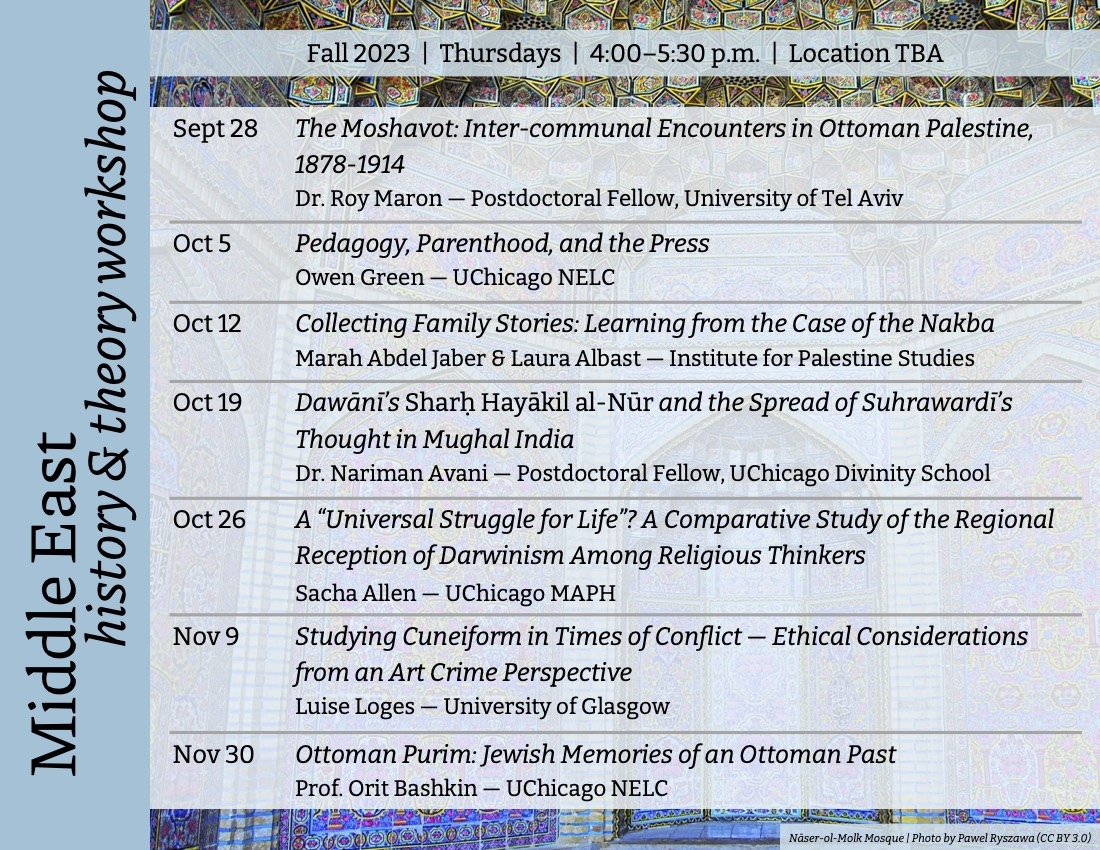
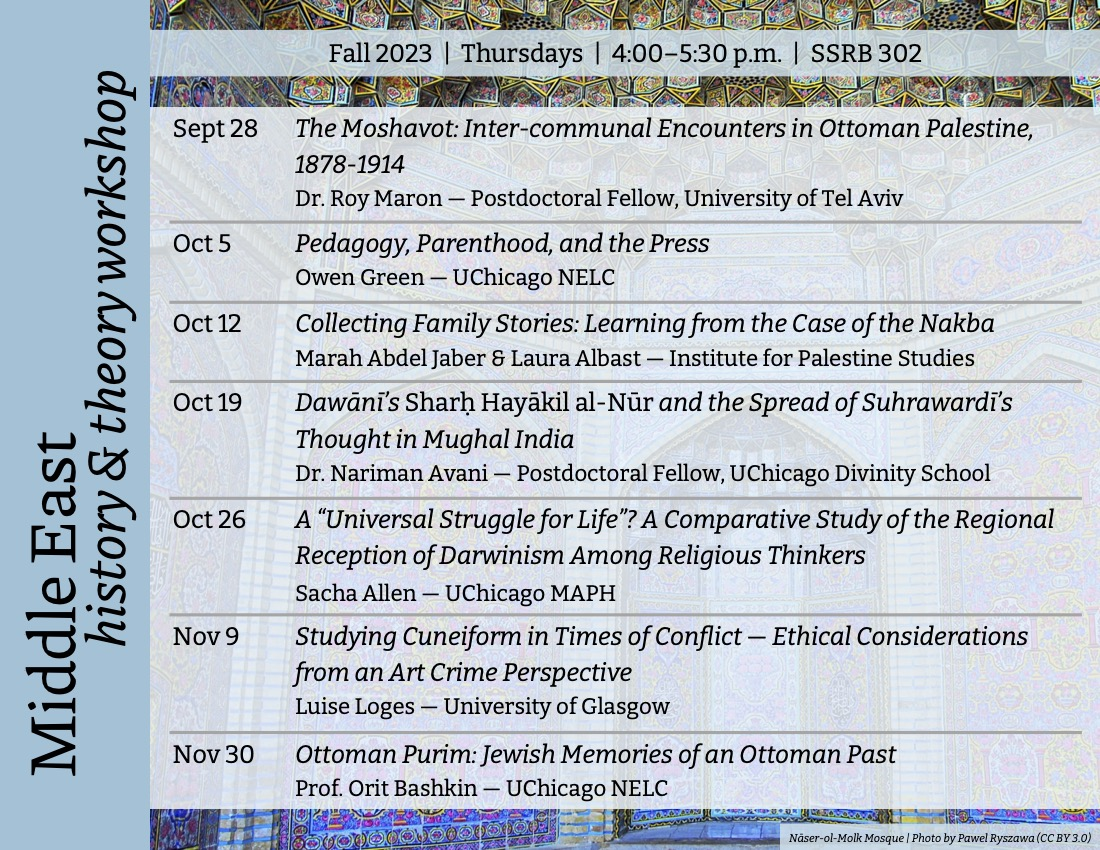
update to mehat location

Changed region(s): [[0.2782, 0.0306, 0.8655, 0.0918]]

diff --git a/_site/MEHAT/2023/09/25/mehat-schedule-fall-2023.html b/_site/MEHAT/2023/09/25/mehat-schedule-fall-2023.html
@@ -284,8 +284,8 @@
 <meta name="generator" content="Jekyll v4.3.2" />
 <meta property="og:title" content="MEHAT Schedule — Fall Term 2023" />
 <meta property="og:locale" content="en_US" />
-<meta name="description" content="We are pleased to announce the tentative schedule for the Fall 2023 meetings of the MEHAT Workshop! Please note presentations will take place at 4PM on Thursdays throughout the term in LOCATION TBA. Fall 2023: Sept 28 – The Moshavot: Inter-communal Encounters in Ottoman Palestine, 1878-1914 w/ Dr. Roy Maron (Postdoctoral Fellow, University of Tel Aviv) Oct 5 — Pedagogy, Parenthood, and the Press w/ Owen Green (UChicago NELC) Oct 12 — Collecting Family Stories: Learning from the Case of the Nakba w/ Marah Abdel Jaber &amp; Laura Albast (Institute for Palestine Studies) Oct 19 — Dawānī’s Sharḥ Hayākil al-Nūr and the Spread of Suhrawardī’s Thought in Mughal India w/ Dr. Nariman Avani (Postdoctoral Fellow, UChicago Divinity School) Oct 26 — A “Universal Struggle for Life”? A Comparative Study of the Regional Reception of Darwinism Among Religious Thinkers w/ Sacha Allen (UChicago MAPH) Nov 9 — Studying Cuneiform in Times of Conflict — Ethical Considerations from an Art Crime Perspective w/ Luise Loges (University of Glasgow) Nov 30 — Ottoman Purim: Jewish Memories of an Ottoman Past w/ Prof. Orit Bashkin (UChicago NELC)" />
-<meta property="og:description" content="We are pleased to announce the tentative schedule for the Fall 2023 meetings of the MEHAT Workshop! Please note presentations will take place at 4PM on Thursdays throughout the term in LOCATION TBA. Fall 2023: Sept 28 – The Moshavot: Inter-communal Encounters in Ottoman Palestine, 1878-1914 w/ Dr. Roy Maron (Postdoctoral Fellow, University of Tel Aviv) Oct 5 — Pedagogy, Parenthood, and the Press w/ Owen Green (UChicago NELC) Oct 12 — Collecting Family Stories: Learning from the Case of the Nakba w/ Marah Abdel Jaber &amp; Laura Albast (Institute for Palestine Studies) Oct 19 — Dawānī’s Sharḥ Hayākil al-Nūr and the Spread of Suhrawardī’s Thought in Mughal India w/ Dr. Nariman Avani (Postdoctoral Fellow, UChicago Divinity School) Oct 26 — A “Universal Struggle for Life”? A Comparative Study of the Regional Reception of Darwinism Among Religious Thinkers w/ Sacha Allen (UChicago MAPH) Nov 9 — Studying Cuneiform in Times of Conflict — Ethical Considerations from an Art Crime Perspective w/ Luise Loges (University of Glasgow) Nov 30 — Ottoman Purim: Jewish Memories of an Ottoman Past w/ Prof. Orit Bashkin (UChicago NELC)" />
+<meta name="description" content="We are pleased to announce the tentative schedule for the Fall 2023 meetings of the MEHAT Workshop! Please note presentations will take place at 4PM on Thursdays throughout the term in SSRB 302. Fall 2023: Sept 28 – The Moshavot: Inter-communal Encounters in Ottoman Palestine, 1878-1914 w/ Dr. Roy Maron (Postdoctoral Fellow, University of Tel Aviv) Oct 5 — Pedagogy, Parenthood, and the Press w/ Owen Green (UChicago NELC) Oct 12 — Collecting Family Stories: Learning from the Case of the Nakba w/ Marah Abdel Jaber &amp; Laura Albast (Institute for Palestine Studies) Oct 19 — Dawānī’s Sharḥ Hayākil al-Nūr and the Spread of Suhrawardī’s Thought in Mughal India w/ Dr. Nariman Avani (Postdoctoral Fellow, UChicago Divinity School) Oct 26 — A “Universal Struggle for Life”? A Comparative Study of the Regional Reception of Darwinism Among Religious Thinkers w/ Sacha Allen (UChicago MAPH) Nov 9 — Studying Cuneiform in Times of Conflict — Ethical Considerations from an Art Crime Perspective w/ Luise Loges (University of Glasgow) Nov 30 — Ottoman Purim: Jewish Memories of an Ottoman Past w/ Prof. Orit Bashkin (UChicago NELC)" />
+<meta property="og:description" content="We are pleased to announce the tentative schedule for the Fall 2023 meetings of the MEHAT Workshop! Please note presentations will take place at 4PM on Thursdays throughout the term in SSRB 302. Fall 2023: Sept 28 – The Moshavot: Inter-communal Encounters in Ottoman Palestine, 1878-1914 w/ Dr. Roy Maron (Postdoctoral Fellow, University of Tel Aviv) Oct 5 — Pedagogy, Parenthood, and the Press w/ Owen Green (UChicago NELC) Oct 12 — Collecting Family Stories: Learning from the Case of the Nakba w/ Marah Abdel Jaber &amp; Laura Albast (Institute for Palestine Studies) Oct 19 — Dawānī’s Sharḥ Hayākil al-Nūr and the Spread of Suhrawardī’s Thought in Mughal India w/ Dr. Nariman Avani (Postdoctoral Fellow, UChicago Divinity School) Oct 26 — A “Universal Struggle for Life”? A Comparative Study of the Regional Reception of Darwinism Among Religious Thinkers w/ Sacha Allen (UChicago MAPH) Nov 9 — Studying Cuneiform in Times of Conflict — Ethical Considerations from an Art Crime Perspective w/ Luise Loges (University of Glasgow) Nov 30 — Ottoman Purim: Jewish Memories of an Ottoman Past w/ Prof. Orit Bashkin (UChicago NELC)" />
 <link rel="canonical" href="http://localhost:4000/MEHAT/2023/09/25/mehat-schedule-fall-2023.html" />
 <meta property="og:url" content="http://localhost:4000/MEHAT/2023/09/25/mehat-schedule-fall-2023.html" />
 <meta property="og:site_name" content="Theo Knights" />
@@ -294,7 +294,7 @@
 <meta name="twitter:card" content="summary" />
 <meta property="twitter:title" content="MEHAT Schedule — Fall Term 2023" />
 <script type="application/ld+json">
-{"@context":"https://schema.org","@type":"BlogPosting","dateModified":"2023-09-25T16:10:23-05:00","datePublished":"2023-09-25T16:10:23-05:00","description":"We are pleased to announce the tentative schedule for the Fall 2023 meetings of the MEHAT Workshop! Please note presentations will take place at 4PM on Thursdays throughout the term in LOCATION TBA. Fall 2023: Sept 28 – The Moshavot: Inter-communal Encounters in Ottoman Palestine, 1878-1914 w/ Dr. Roy Maron (Postdoctoral Fellow, University of Tel Aviv) Oct 5 — Pedagogy, Parenthood, and the Press w/ Owen Green (UChicago NELC) Oct 12 — Collecting Family Stories: Learning from the Case of the Nakba w/ Marah Abdel Jaber &amp; Laura Albast (Institute for Palestine Studies) Oct 19 — Dawānī’s Sharḥ Hayākil al-Nūr and the Spread of Suhrawardī’s Thought in Mughal India w/ Dr. Nariman Avani (Postdoctoral Fellow, UChicago Divinity School) Oct 26 — A “Universal Struggle for Life”? A Comparative Study of the Regional Reception of Darwinism Among Religious Thinkers w/ Sacha Allen (UChicago MAPH) Nov 9 — Studying Cuneiform in Times of Conflict — Ethical Considerations from an Art Crime Perspective w/ Luise Loges (University of Glasgow) Nov 30 — Ottoman Purim: Jewish Memories of an Ottoman Past w/ Prof. Orit Bashkin (UChicago NELC)","headline":"MEHAT Schedule — Fall Term 2023","mainEntityOfPage":{"@type":"WebPage","@id":"http://localhost:4000/MEHAT/2023/09/25/mehat-schedule-fall-2023.html"},"url":"http://localhost:4000/MEHAT/2023/09/25/mehat-schedule-fall-2023.html"}</script>
+{"@context":"https://schema.org","@type":"BlogPosting","dateModified":"2023-09-25T16:10:23-05:00","datePublished":"2023-09-25T16:10:23-05:00","description":"We are pleased to announce the tentative schedule for the Fall 2023 meetings of the MEHAT Workshop! Please note presentations will take place at 4PM on Thursdays throughout the term in SSRB 302. Fall 2023: Sept 28 – The Moshavot: Inter-communal Encounters in Ottoman Palestine, 1878-1914 w/ Dr. Roy Maron (Postdoctoral Fellow, University of Tel Aviv) Oct 5 — Pedagogy, Parenthood, and the Press w/ Owen Green (UChicago NELC) Oct 12 — Collecting Family Stories: Learning from the Case of the Nakba w/ Marah Abdel Jaber &amp; Laura Albast (Institute for Palestine Studies) Oct 19 — Dawānī’s Sharḥ Hayākil al-Nūr and the Spread of Suhrawardī’s Thought in Mughal India w/ Dr. Nariman Avani (Postdoctoral Fellow, UChicago Divinity School) Oct 26 — A “Universal Struggle for Life”? A Comparative Study of the Regional Reception of Darwinism Among Religious Thinkers w/ Sacha Allen (UChicago MAPH) Nov 9 — Studying Cuneiform in Times of Conflict — Ethical Considerations from an Art Crime Perspective w/ Luise Loges (University of Glasgow) Nov 30 — Ottoman Purim: Jewish Memories of an Ottoman Past w/ Prof. Orit Bashkin (UChicago NELC)","headline":"MEHAT Schedule — Fall Term 2023","mainEntityOfPage":{"@type":"WebPage","@id":"http://localhost:4000/MEHAT/2023/09/25/mehat-schedule-fall-2023.html"},"url":"http://localhost:4000/MEHAT/2023/09/25/mehat-schedule-fall-2023.html"}</script>
 <!-- End Jekyll SEO tag -->
 
 
@@ -460,7 +460,7 @@
 <p>We are pleased to announce the tentative schedule for the Fall 2023 meetings of the MEHAT Workshop!
 <br />
 <br />
-<b>Please note presentations will take place at 4PM on Thursdays throughout the term in LOCATION TBA.</b></p>
+<b>Please note presentations will take place at 4PM on Thursdays throughout the term in SSRB 302.</b></p>
 <div class="desktoponly" style="max-width: 100%;">
     <a href="http://localhost:4000/images/MEHAT Fall 2023.jpg" target="_blank">
       <img alt="schedule fall" src="http://localhost:4000/images/MEHAT Fall 2023.jpg" style="width: auto;" />

diff --git a/_posts/2023-09-25-mehat-schedule-fall-2023.md b/_posts/2023-09-25-mehat-schedule-fall-2023.md
@@ -7,7 +7,7 @@ categories: MEHAT
 We are pleased to announce the tentative schedule for the Fall 2023 meetings of the MEHAT Workshop!
 <br>
 <br>
-<b>Please note presentations will take place at 4PM on Thursdays throughout the term in LOCATION TBA.</b>  
+<b>Please note presentations will take place at 4PM on Thursdays throughout the term in SSRB 302.</b>  
   <div class="desktoponly" style="max-width: 100%;">
     <a href="{{ site.url }}/images/MEHAT Fall 2023.jpg" target="_blank">
       <img alt="schedule fall" src="{{ site.url }}/images/MEHAT Fall 2023.jpg" 
